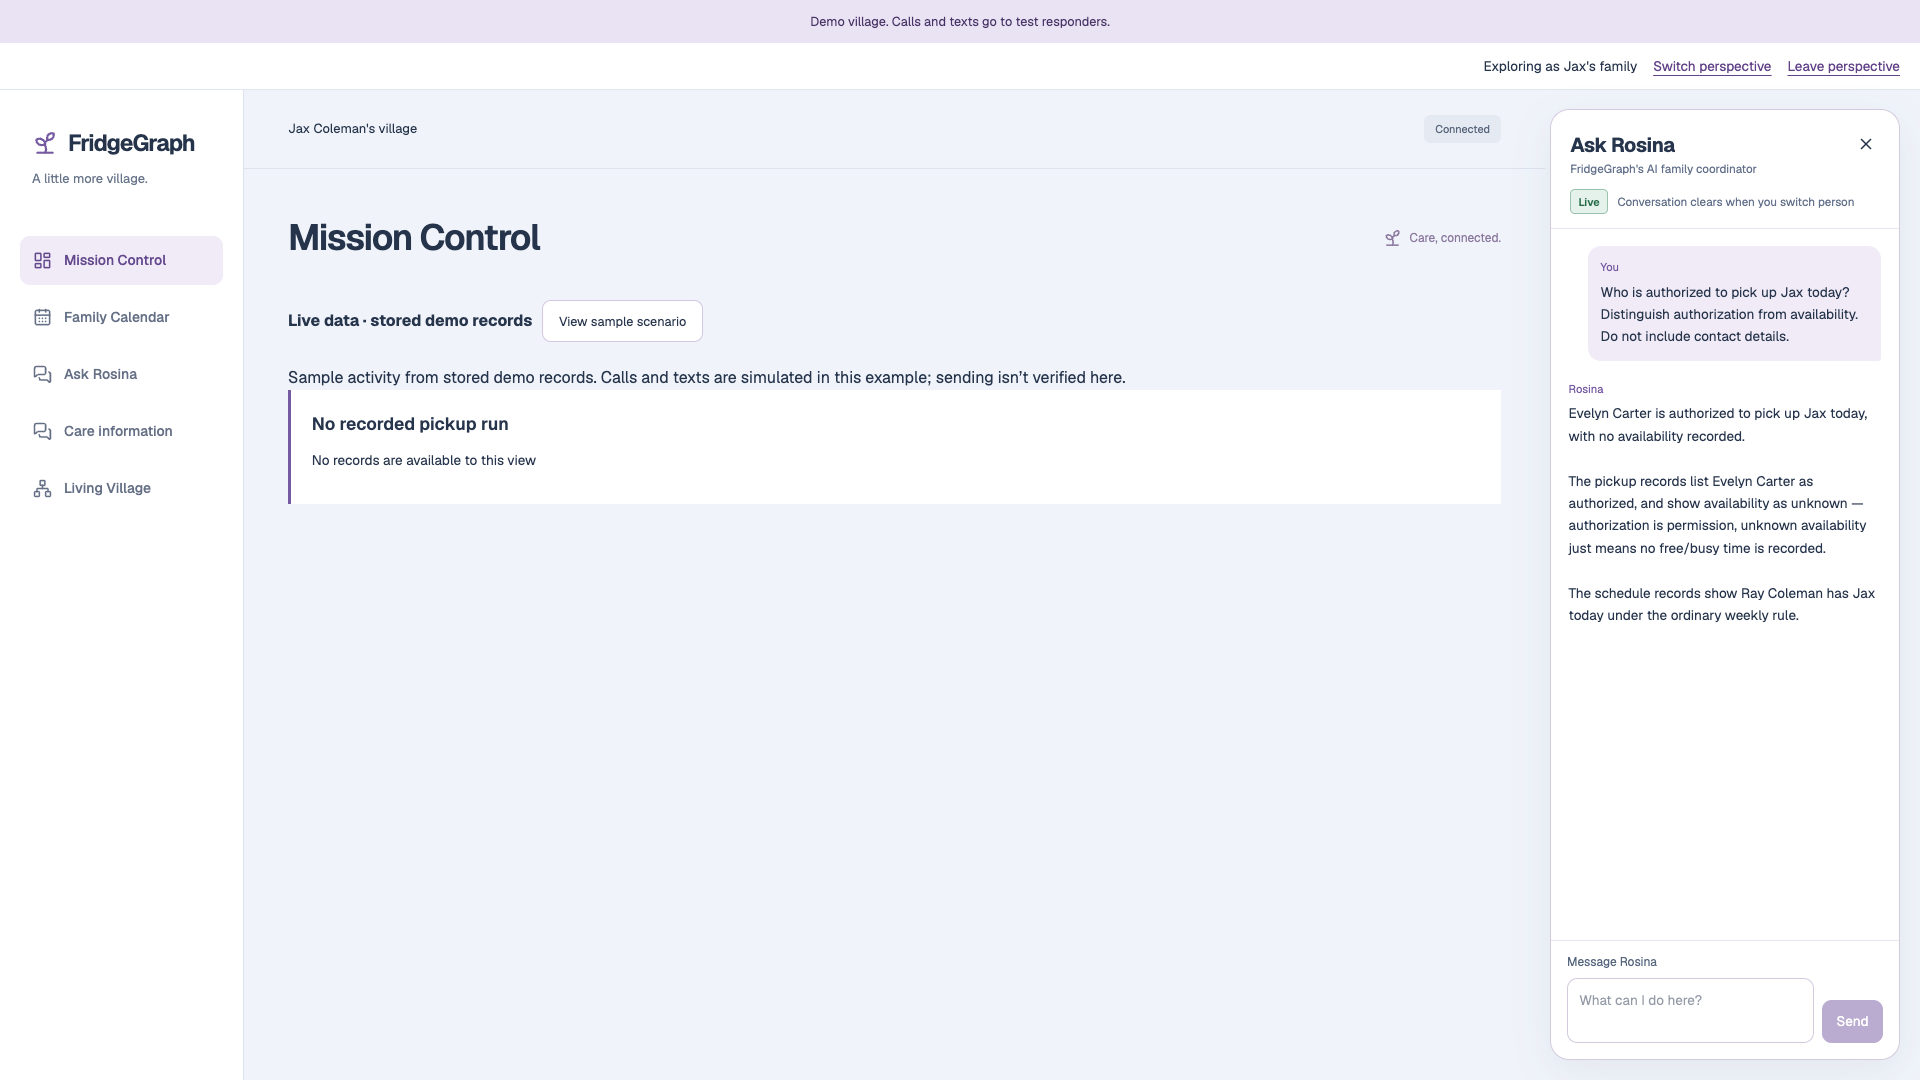
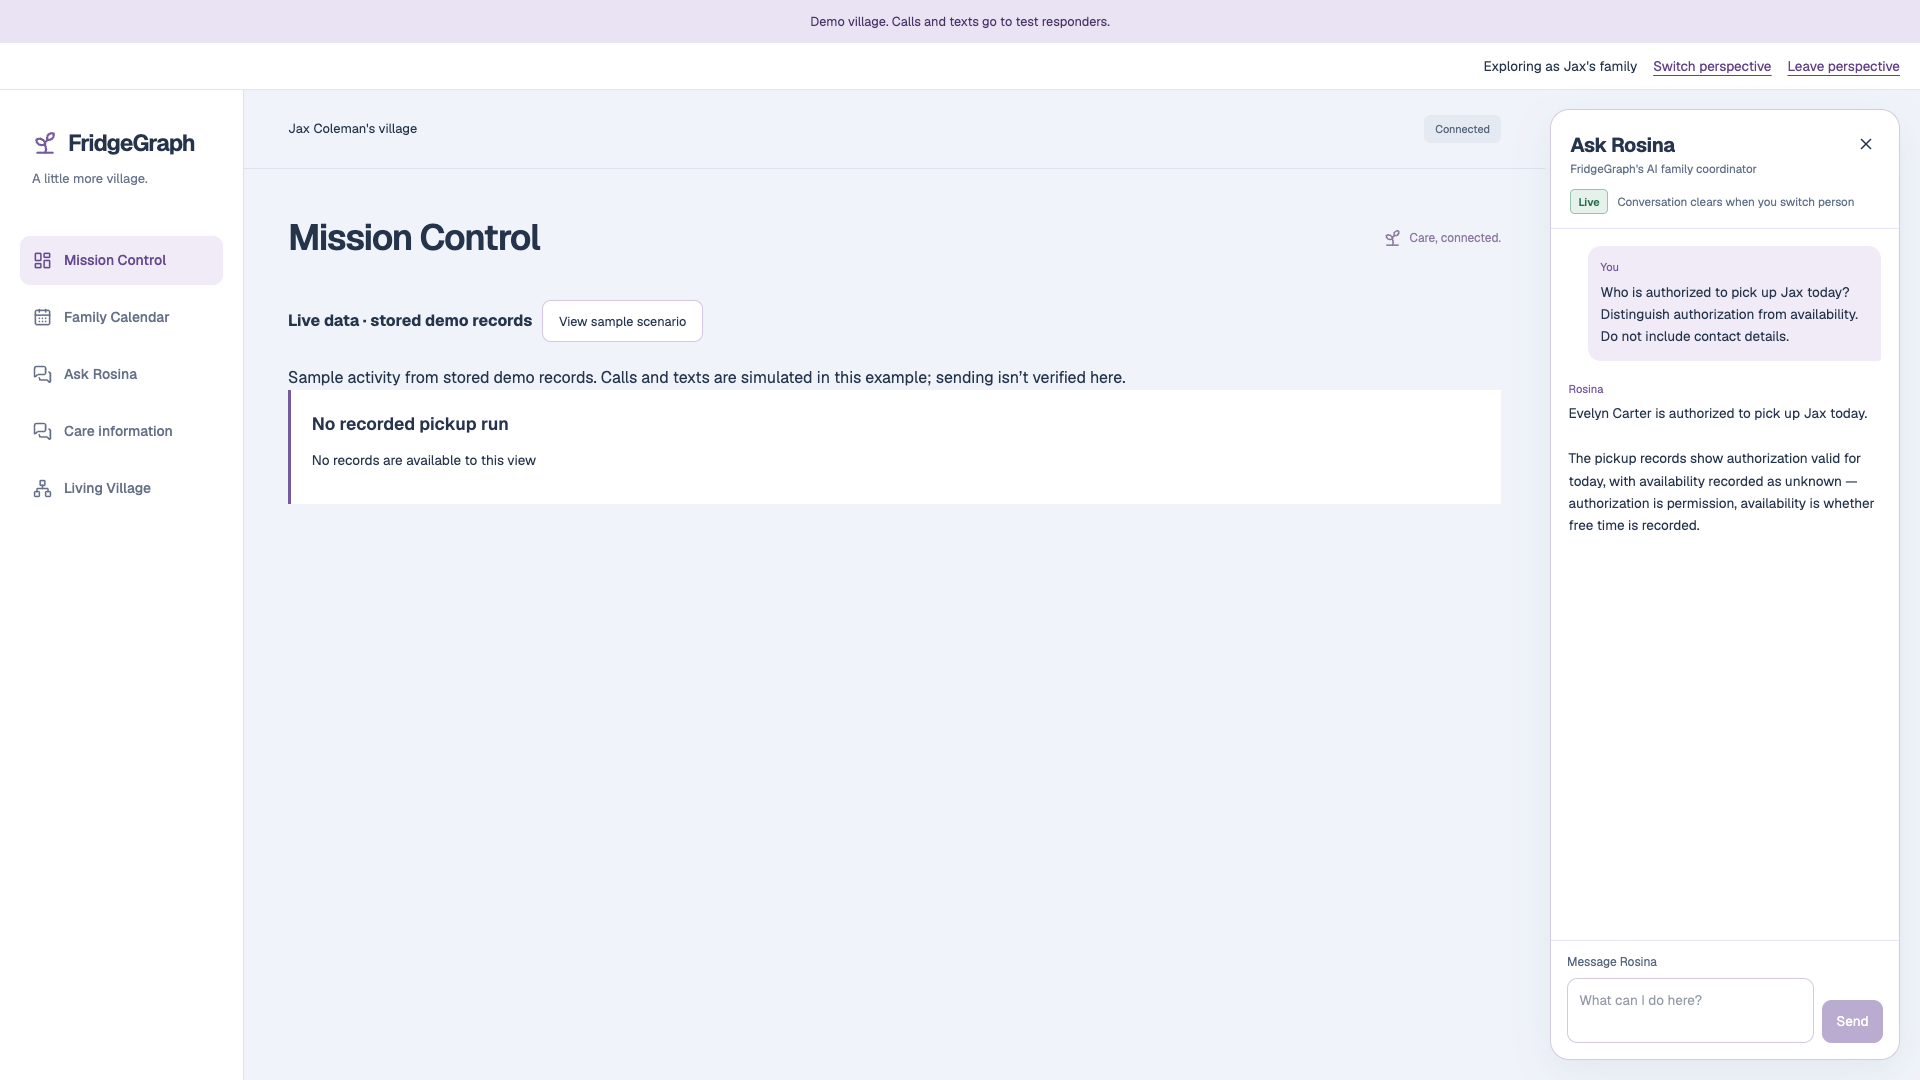
test(web): distinguish absent availability records from availability claims

Changed region(s): [[0.8125, 0.3972, 0.9688, 0.5194], [0.8125, 0.55, 0.9375, 0.5806]]

diff --git a/web/scripts/demo-login-captures.js b/web/scripts/demo-login-captures.js
@@ -26,7 +26,8 @@ async page=>{
    const words=new Set([...new Intl.Segmenter('en',{granularity:'word'}).segment(reply)].map(x=>x.segment.toLowerCase()))
    if(!actualCandidates.every(c=>words.has(c.person.displayName.split(' ')[0].toLowerCase()))||/couldn't check|send your question again|busy, try again|give me a moment/i.test(reply))throw Error(id+': live reply not grounded in current candidates')
    await page.evaluate(async({origin,proof})=>{await fetch(origin+'/proof',{method:'POST',headers:{'Content-Type':'application/json'},body:JSON.stringify(proof)})},{origin,proof:{passed:false,incomplete:true,rows,active:{persona:id,question,reply,actualCandidates}}})
-   if(actualCandidates.some(c=>c.availability==='UNKNOWN')&&!/unknown|not recorded|not confirmed|can't confirm/i.test(reply))throw Error(id+': unknown availability distinction missing')
+   const consistent=await page.evaluate(async({reply,actualCandidates})=>{const m=await import('/scripts/availability-acceptance.mjs');return m.availabilityConsistent(reply,actualCandidates)},{reply,actualCandidates})
+   if(!consistent)throw Error(id+': availability distinction unsupported by source records')
   }
   for(const [size,label] of [[{width:1920,height:1080},'desktop'],[{width:390,height:844},'mobile']]){
    await page.setViewportSize(size)

diff --git a/web/evidence/demo-login/current/README.md b/web/evidence/demo-login/current/README.md
@@ -1,6 +1,6 @@
 **Latest runtime: all eleven picker sessions READY and verified.** See picker-ready.json.
 Earlier Coming-soon observations below are historical; live scripts no longer require them.
-#38 wording-matcher gate is pending Bryan's authorization; see the final section.
+#38 wording matcher is corrected with Bryan's approval; latest affected acceptance PASS below.
 
 # W4b replacement brief — current evidence
 
@@ -38,7 +38,10 @@ malformed calendar IDs are indistinguishable within each operation.
 | Dana | READY | PASS — bounded Jax reads; Nora private records refused, including after Kendra | Live answer: Evelyn authorized for Jax, availability unknown |
 | Jax's family | READY | PASS — Jax records; Nora private records refused | Live answer: Evelyn authorized for Jax, availability unknown |
 | Demo guide | READY | PASS — sandbox calendar/job; non-sandbox calendar refused; confirmed forced write refused read-only | Live answer grounded in sandbox candidates |
-| Rosa Castellano | Coming soon, disabled | Pending Cast v2 seed; no identity substituted | Pending |
+| Rosa Castellano | READY | Pending expanded Cast v2 read acceptance | Pending expanded Cast v2 Rosina acceptance |
+| Felicia Reyes | READY | Pending expanded Cast v2 read acceptance | Pending expanded Cast v2 Rosina acceptance |
+| Simone Lee | READY | Pending expanded Cast v2 read acceptance | Pending expanded Cast v2 Rosina acceptance |
+| Dwayne Ferris | READY | Pending expanded Cast v2 read acceptance | Pending expanded Cast v2 Rosina acceptance |
 
 All seven live replies from the acceptance run are preserved verbatim in `results.json`.
 No unsupported availability claim or foreign private identity was observed in these replies.
@@ -231,3 +234,35 @@ recorded — authorization is permission, not a promise she is free,” matching
 value. The new matcher does not recognize that equivalent phrase. AGENTS §1.4 stop applies;
 authorization to correct the matcher with a rejecting negative control is pending. No assertion
 was weakened or failing receipt relabeled. W-ORBIT is queued after #32 is merged by Bryan.
+
+## Authorized matcher correction
+
+Bryan approved accepting “no availability recorded” as absent records. The original failed receipt
+is unchanged. A regression reads that actual receipt; negative controls reject “nobody is available”,
+UNKNOWN → confirmed availability, and FREE → confirmed willingness (even alongside a correct
+uncertainty disclaimer). Old logic failed 5/6 groups; corrected helper passes 6/6. No production
+behavior or response was rewritten. Current live rerun results will be appended separately.
+
+## Corrected acceptance — final current-main result
+
+Bryan approved the matcher correction. Final helper tests **7/7 PASS**, including the exact original
+failed receipt, nobody-available conclusions with and without candidate rows, unsupported positive
+availability claims, and FREE-to-willingness conclusions (also “so”, “therefore”, “because”, “can
+help”, “available to help”). Explicit limits on FREE and actual recorded availability still pass.
+The helper is a bounded acceptance-language check; source records remain authoritative. The original
+failed receipt remains unchanged and false. Corrections/results are appended here and in HANDOFF.
+
+Affected live rerun **PASS** (`rosina-captures.json`): seven scoped Rosina flows, actual current
+candidate grounding, calendar consistency, exact Dana boundary refusal, disabled unimplemented Orbit
+card, and all eleven picker sessions. Final token scan PASS; desktop/mobile captures refreshed.
+The final helper was also audited against all five current grounded candidate replies: PASS.
+All eleven READY and landing checks also have the independent `picker-ready.json` receipt.
+UNAVAILABLE behavior remains covered only by controlled unit responses, not stale live expectations.
+
+Offline checks: 206/206 web tests, 53/53 Rosina tests, root typecheck, web typecheck/build, 8-entry
+catalog consistency and 3/3 reservation guards PASS. Existing full graph/context/frame-isolation
+proofs remain valid; #38 changed no schema/session/cache code. W4b slice: UI complete · backend
+documented reads complete · integrated + tested PASS. Expanded Cast v2 breadth and other broader
+W4 dependencies remain separately PENDING. Read-only window explicitly released to Bentley after
+completion. No reset, seed, restart or checkout switch by this task. Final CI/readiness publication
+is recorded in the PR; no merge. W-ORBIT starts only after Bryan merges #32.

diff --git a/docs/handoff/HANDOFF.md b/docs/handoff/HANDOFF.md
@@ -2531,3 +2531,40 @@ expectations removed. Final staged scan **506 files / 0 findings**. Current read
 released to Bentley after independent checks completed, with the stopped matcher gate reported.
 No more live requests until a new coordinated window if needed. #32 remains draft pending Bryan's
 specific authorization; no PR merge. W-ORBIT remains queued after #32 is merged.
+
+### W4b — authorized wording correction (append-only result)
+
+Bryan explicitly approved correcting the new acceptance matcher. The original failed receipt
+`current/main38-matcher-failure.json` remains unchanged and still says passed:false. The regression
+test reads that exact reply and source records, rather than rewriting the receipt. “No availability
+recorded” now means absent records only. Independent rejection checks prevent an uncertainty
+sentence from masking “nobody is available”, a positive availability claim for an UNKNOWN candidate,
+or a FREE → confirmed-willingness conclusion (including “so”, “therefore” and “because” variants).
+Recorded availability remains distinct from willingness; explicit “FREE does not mean willingness”
+wording remains valid. This is a bounded acceptance-language check, not a source of new facts.
+
+Red/green verification: the old matcher failed **5 of 6 groups**; corrected matcher **6/6 PASS**,
+including the exact preserved receipt and negative controls. Client production code and backend
+contracts are unchanged. The live capture uses the same tested helper. Further results follow;
+no earlier failure is relabeled as green.
+
+Final authorized correction verification: **7/7 matcher groups PASS**, including the exact original
+failed receipt and negative controls for absent-record “nobody available” claims (even without a
+candidate row), unsupported positive availability, and FREE → confirmed willingness/can-help
+conclusions. The additional controls were also observed failing before the final fix. All five
+current grounded live replies pass an offline audit against the final helper. No earlier receipt
+is modified or relabeled.
+
+Affected current-main live acceptance **PASS**: seven scoped Rosina flows, names/availability
+grounded in current tool results, Kendra calendar consistency, exact Dana private-calendar refusal,
+unimplemented Orbit card blocked, all eleven READY picker paths, desktop/mobile captures, and
+clean in-process token scan. Receipt: current/rosina-captures.json; independent eleven-picker proof:
+current/picker-ready.json. Explicit completion/release sent to Bentley; no additional live requests
+or resets/seeds/restarts/checkout switches by Codex.
+
+Rechecked: **206/206 web tests, 53/53 Rosina tests**, root typecheck, web typecheck/build, catalog
+**8 ids** and reservation guard **3/3 PASS**. W4b slice: **UI complete · backend documented reads
+complete · integrated + tested PASS**. Broader W4 dependencies remain PENDING and do not block
+review. Proceed with normal push, final-head CI, and mark #32 ready as Bryan authorized. Never
+merge. W-ORBIT remains queued AFTER #32 is merged by Bryan.
+Final staged secret scan after the authorized correction: **508 files / 0 findings**.
